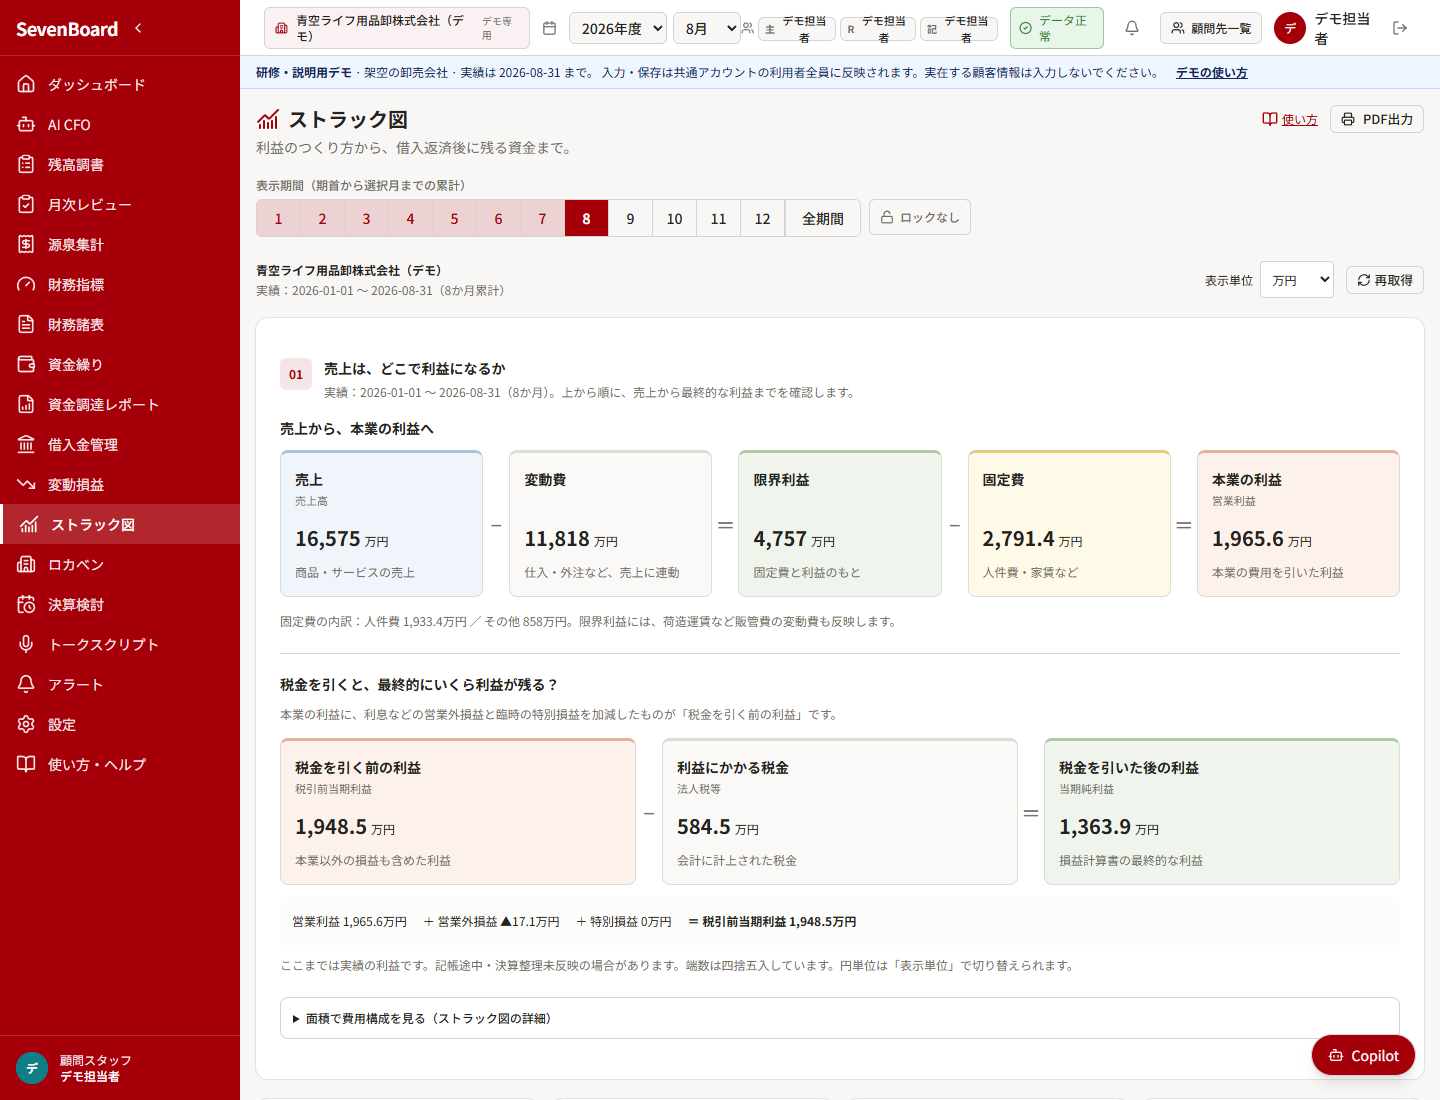
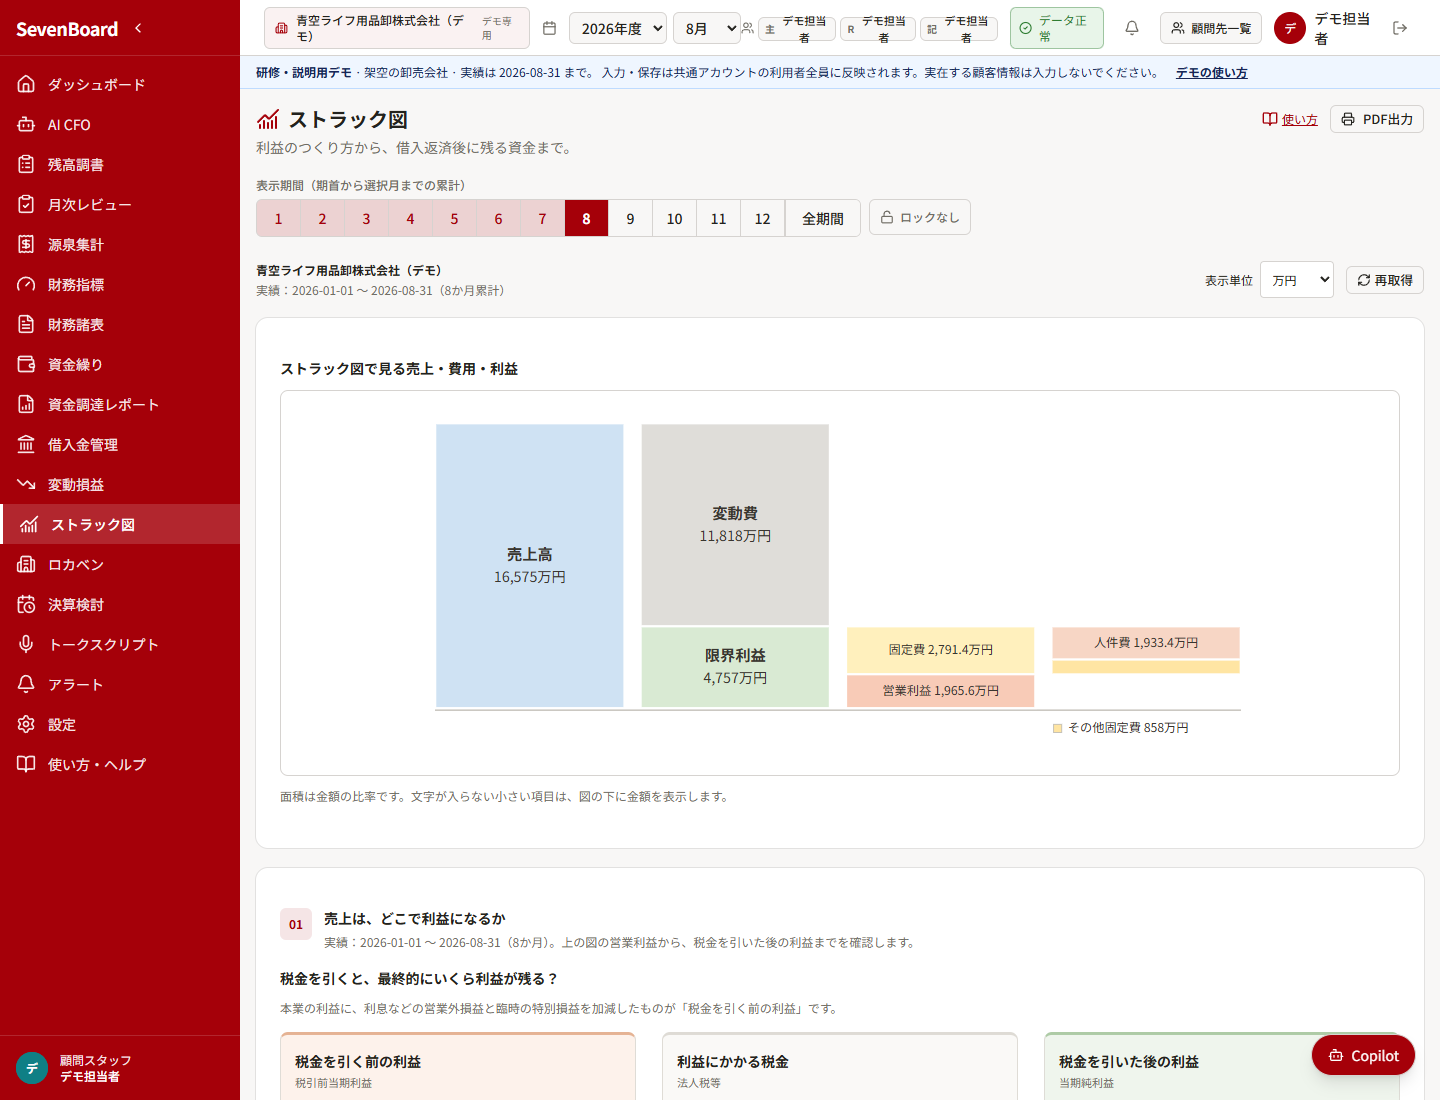
fix: show STRAC diagram before profit explanation

diff --git a/apps/web/src/app/strac/_chart.tsx b/apps/web/src/app/strac/_chart.tsx
@@ -8,8 +8,8 @@ export function money(value: number | null, unit: StracUnit = '万円') {
 }
 export const percent = (v: number | null) => v === null || !Number.isFinite(v) ? '—' : `${(v * 100).toFixed(1)}%`;
 
-/** Supplemental area view. Amounts stay outside the proportional bands. */
-function StracAreaChart({ data: d, unit }: { data: StracActual; unit: StracUnit }) {
+/** Always-visible area view; thin bands have their amounts below the baseline. */
+export function StracAreaChart({ data: d, unit }: { data: StracActual; unit: StracUnit }) {
   const proportional = d.revenue > 0 && [d.variable, d.contribution, d.fixed, d.personnel, d.otherFixed, d.operating].every(v => v >= 0);
   const values = [
     { label: '売上高', value: d.revenue, color: '#cfe2f3' },
@@ -18,44 +18,48 @@ function StracAreaChart({ data: d, unit }: { data: StracActual; unit: StracUnit 
     { label: '固定費', value: d.fixed, color: '#fff0bd' },
     { label: '営業利益', value: d.operating, color: '#f8cbb7' },
   ];
-  const y = 30, height = 280, scale = height / d.revenue;
-  const block = (x: number, top: number, h: number, color: string, label: string, value: number) => (
-    <g key={label}>
-      <rect x={x} y={top} width={186} height={Math.max(0, h)} fill={color} stroke="#fff" strokeWidth={2} />
-      <title>{`${label} ${Math.round(value).toLocaleString('ja-JP')}円`}</title>
-      {h >= 44 && <text x={x + 93} y={top + h / 2 + 5} fill="#39352f" fontSize={16} textAnchor="middle" fontWeight={600}>{label}</text>}
-    </g>
-  );
-  return <div>
-    <div className="strac-chart-scroll overflow-x-auto rounded-lg border bg-white p-3">
-      <svg className="strac-svg max-h-[340px] min-w-[620px] w-full" viewBox="0 0 816 347" role="img" aria-label="ストラック図：売上高を変動費・限界利益に、限界利益を固定費・営業利益に分解">
+  const y = 20, height = 280, scale = d.revenue > 0 ? height / d.revenue : 0;
+  const bands = [
+    { x: 10, offset: 0, label: '売上高', value: d.revenue, color: '#cfe2f3' },
+    { x: 212, offset: 0, label: '変動費', value: d.variable, color: '#dfddd9' },
+    { x: 212, offset: d.variable, label: '限界利益', value: d.contribution, color: '#d9ead3' },
+    { x: 414, offset: d.variable, label: '固定費', value: d.fixed, color: '#fff0bd' },
+    { x: 414, offset: d.variable + d.fixed, label: '営業利益', value: d.operating, color: '#f8cbb7' },
+    { x: 616, offset: d.variable, label: '人件費', value: d.personnel, color: '#f7d6c5' },
+    { x: 616, offset: d.variable + d.personnel, label: 'その他固定費', value: d.otherFixed, color: '#ffe5a3' },
+  ].map(b => ({ ...b, top: y + b.offset * scale, height: b.value * scale }));
+  const callouts = bands.filter(b => b.height < 22);
+  return <figure data-print-block data-testid="strac-area-chart">
+    <p className="screen-only mb-2 text-[11px] text-muted-foreground md:hidden">図は横にスクロールできます →</p>
+    <div className="strac-chart-scroll overflow-x-auto rounded-lg border bg-white p-3" tabIndex={0} aria-label="ストラック図。画面が狭い場合は横にスクロールできます">
+      <svg className="strac-svg max-h-[360px] min-w-[816px] w-full" viewBox="0 0 816 354" role="img" aria-label={`ストラック図：${bands.map(b => `${b.label} ${Math.round(b.value).toLocaleString('ja-JP')}円`).join('、')}`}>
         {proportional ? <>
-          {block(10, y, height, '#cfe2f3', '売上高', d.revenue)}
-          {block(212, y, d.variable * scale, '#dfddd9', '変動費', d.variable)}
-          {block(212, y + d.variable * scale, d.contribution * scale, '#d9ead3', '限界利益', d.contribution)}
-          {block(414, y + d.variable * scale, d.fixed * scale, '#fff0bd', '固定費', d.fixed)}
-          {block(414, y + (d.variable + d.fixed) * scale, d.operating * scale, '#f8cbb7', '営業利益', d.operating)}
-          {block(616, y + d.variable * scale, d.personnel * scale, '#f7d6c5', '人件費', d.personnel)}
-          {block(616, y + (d.variable + d.personnel) * scale, d.otherFixed * scale, '#ffe5a3', 'その他固定費', d.otherFixed)}
-          <line x1={10} x2={802} y1={312} y2={312} stroke="#aca79e" />
-          {['売上の全体', '売上に連動する費用', '限界利益の使い道', '固定費の内訳'].map((label, i) => <text key={label} x={103 + i * 202} y={334} fontSize={12} textAnchor="middle" fill="#706d65">{label}</text>)}
+          {bands.map(b => <g key={b.label}>
+            <rect x={b.x} y={b.top} width={186} height={b.height} fill={b.color} stroke="#fff" strokeWidth={2} />
+            <title>{`${b.label} ${Math.round(b.value).toLocaleString('ja-JP')}円`}</title>
+            {b.height >= 60 ? <>
+              <text x={b.x + 93} y={b.top + b.height / 2 - 6} fill="#39352f" fontSize={15} textAnchor="middle" fontWeight={600}>{b.label}</text>
+              <text x={b.x + 93} y={b.top + b.height / 2 + 16} fill="#39352f" fontSize={14} textAnchor="middle">{money(b.value, unit)}{unit}</text>
+            </> : b.height >= 22 ? <text x={b.x + 93} y={b.top + b.height / 2 + 4} fill="#39352f" fontSize={12} textAnchor="middle">{b.label} {money(b.value, unit)}{unit}</text> : null}
+          </g>)}
+          <line x1={10} x2={802} y1={302} y2={302} stroke="#aca79e" />
+          {callouts.map(b => {
+            const row = callouts.filter(item => item.x === b.x).findIndex(item => item.label === b.label);
+            return <g key={b.label}><rect x={b.x + 2} y={316 + row * 20} width={8} height={8} fill={b.color} stroke="#aaa" strokeWidth={0.5} /><text x={b.x + 16} y={324 + row * 20} fontSize={12} fill="#39352f">{b.label} {money(b.value, unit)}{unit}</text></g>;
+          })}
         </> : <>
           <line x1={410} x2={410} y1={10} y2={305} stroke="#aca79e" />
           {values.map((v, i) => {
-            const width = Math.abs(v.value) / Math.max(1, ...values.map(item => Math.abs(item.value))) * 285;
-            return <g key={v.label}><text x={10} y={40 + i * 54} fontSize={14} fill="#39352f">{v.label}</text><rect x={v.value < 0 ? 410 - width : 410} y={19 + i * 54} width={width} height={32} fill={v.value < 0 ? '#f4b6b6' : v.color} /><title>{`${v.label} ${Math.round(v.value).toLocaleString('ja-JP')}円`}</title></g>;
+            const width = Math.abs(v.value) / Math.max(1, ...values.map(item => Math.abs(item.value))) * 245;
+            return <g key={v.label}><text x={10} y={40 + i * 54} fontSize={14} fill="#39352f">{v.label}</text><rect x={v.value < 0 ? 410 - width : 410} y={19 + i * 54} width={width} height={32} fill={v.value < 0 ? '#f4b6b6' : v.color} /><text x={804} y={40 + i * 54} fontSize={12} textAnchor="end" fill="#39352f">{money(v.value, unit)}{unit}</text><title>{`${v.label} ${Math.round(v.value).toLocaleString('ja-JP')}円`}</title></g>;
           })}
           <text x={410} y={329} textAnchor="middle" fontSize={12} fill="#706d65">赤字・控除項目があるため、0を基準とした符号付き表示</text>
         </>}
       </svg>
     </div>
-    <div className="mt-3 grid grid-cols-2 gap-2 sm:grid-cols-5">
-      {values.map(v => <div key={v.label} className="rounded-md border p-3" style={{ borderTopColor: v.color, borderTopWidth: 3 }}><div className="text-xs text-muted-foreground">{v.label}</div><div className="mt-1 break-words text-lg font-bold tabular-nums" title={`${v.value.toLocaleString('ja-JP')}円`}>{money(v.value, unit)}<span className="ml-1 text-[10px] font-normal">{unit}</span></div></div>)}
-    </div>
-    <p className="mt-2 text-xs leading-6 text-muted-foreground">固定費の内訳：人件費 {money(d.personnel, unit)}{unit} ／ その他 {money(d.otherFixed, unit)}{unit}。金額は図の下に表示しています。</p>
-  </div>;
+    <figcaption className="mt-2 text-xs leading-6 text-muted-foreground">{proportional ? '面積は金額の比率です。文字が入らない小さい項目は、図の下に金額を表示します。' : `固定費の内訳：人件費 ${money(d.personnel, unit)}${unit} ／ その他 ${money(d.otherFixed, unit)}${unit}。`}</figcaption>
+  </figure>;
 }
-
 
 export function FlowAmount({ value, unit }: { value: number | null; unit: StracUnit }) {
   return <span className={`strac-amount tabular-nums ${value !== null && value < 0 ? 'text-red-700' : ''}`} title={value === null ? '未確認' : `${Math.round(value).toLocaleString('ja-JP')}円`}>{money(value, unit)}{value !== null && <span className="ml-1 text-xs font-normal">{unit}</span>}</span>;
@@ -74,20 +78,9 @@ export function FlowCard({ label, term, value, unit, operator, tone = 'neutral',
 }
 
 /** Reading order stays fixed, even when profit is small or negative. */
-export function StracChart({ data: d, unit }: { data: StracActual; unit: StracUnit }) {
+export function StracProfitFlow({ data: d, unit }: { data: StracActual; unit: StracUnit }) {
   return <div className="space-y-5">
     <div data-print-block>
-      <h3 className="mb-3 text-sm font-semibold">売上から、本業の利益へ</h3>
-      <div className="strac-flow strac-flow-five" aria-label="売上から営業利益への計算">
-        <FlowCard label="売上" term="売上高" value={d.revenue} unit={unit} tone="sales">商品・サービスの売上</FlowCard>
-        <FlowCard label="変動費" value={d.variable} unit={unit} operator="−">仕入・外注など、売上に連動</FlowCard>
-        <FlowCard label="限界利益" value={d.contribution} unit={unit} operator="＝" tone="margin">固定費と利益のもと</FlowCard>
-        <FlowCard label="固定費" value={d.fixed} unit={unit} operator="−" tone="cost">人件費・家賃など</FlowCard>
-        <FlowCard label="本業の利益" term="営業利益" value={d.operating} unit={unit} operator="＝" tone="profit">本業の費用を引いた利益</FlowCard>
-      </div>
-      <p className="mt-3 text-xs leading-6 text-muted-foreground">固定費の内訳：人件費 {money(d.personnel, unit)}{unit} ／ その他 {money(d.otherFixed, unit)}{unit}。限界利益には、荷造運賃など販管費の変動費も反映します。</p>
-    </div>
-    <div data-print-block className="border-t pt-5">
       <h3 className="mb-2 text-sm font-semibold">税金を引くと、最終的にいくら利益が残る？</h3>
       <p className="mb-3 text-xs leading-6 text-muted-foreground">本業の利益に、利息などの営業外損益と臨時の特別損益を加減したものが「税金を引く前の利益」です。</p>
       <div className="strac-flow strac-flow-three" aria-label="税金を引く前から引いた後の利益">
@@ -100,6 +93,5 @@ export function StracChart({ data: d, unit }: { data: StracActual; unit: StracUn
       </div>
       <p className="mt-2 text-xs leading-6 text-muted-foreground">ここまでは実績の利益です。記帳途中・決算整理未反映の場合があります。端数は四捨五入しています。円単位は「表示単位」で切り替えられます。</p>
     </div>
-    <details className="rounded-lg border p-3"><summary className="cursor-pointer text-xs font-medium">面積で費用構成を見る（ストラック図の詳細）</summary><div className="mt-3"><StracAreaChart data={d} unit={unit} /></div></details>
   </div>;
 }

diff --git a/apps/web/src/app/strac/page.tsx b/apps/web/src/app/strac/page.tsx
@@ -14,7 +14,7 @@ import { useMfOffice } from '@/hooks/use-mf-data';
 import { usePeriodStore } from '@/lib/period-store';
 import { api } from '@/lib/api';
 import { stracFingerprint, stracActual, stracBookDebt, stracPlan, stracRepayments, stracWindow, normalizeStracAssumptions, type StracAssumptions, type StracWindow } from '@/lib/strac';
-import { StracChart, money, percent, STRAC_UNITS, type StracUnit } from './_chart';
+import { StracAreaChart, StracProfitFlow, money, percent, STRAC_UNITS, type StracUnit } from './_chart';
 import { RepaymentFlow } from './_repayment';
 import './strac.css';
 
@@ -93,8 +93,12 @@ function StracContent({ orgId, company, window: w, readOnly }: { orgId: string; 
     {w.capped && <Notice>未経過の月を含めず、{w.end}までの月末実績を表示しています。</Notice>}
     {!sourceReady && <Notice warning>{issueList(actual.issues)}<p className="mt-2">P/Lとの一致を確認するまで、返済余力の試算を保留します。</p></Notice>}
     <Card><CardContent className="p-4 sm:p-6">
-      <SectionTitle number="01" title="売上は、どこで利益になるか" description={`実績：${w.start} 〜 ${w.end}（${w.months}か月）。上から順に、売上から最終的な利益までを確認します。`} />
-      {[actual.revenue, actual.variable, actual.fixed, actual.operating].every(Number.isFinite) ? <StracChart data={actual} unit={unit} /> : <Notice warning>図を描画できる数値を取得できませんでした。</Notice>}
+      <h2 className="mb-3 text-sm font-semibold">ストラック図で見る売上・費用・利益</h2>
+      {[actual.revenue, actual.variable, actual.fixed, actual.operating].every(Number.isFinite) ? <StracAreaChart data={actual} unit={unit} /> : <Notice warning>図を描画できる数値を取得できませんでした。</Notice>}
+    </CardContent></Card>
+    <Card data-print-block><CardContent className="p-4 sm:p-6">
+      <SectionTitle number="01" title="売上は、どこで利益になるか" description={`実績：${w.start} 〜 ${w.end}（${w.months}か月）。上の図の営業利益から、税金を引いた後の利益までを確認します。`} />
+      {[actual.revenue, actual.variable, actual.fixed, actual.operating].every(Number.isFinite) ? <StracProfitFlow data={actual} unit={unit} /> : <Notice warning>図を描画できる数値を取得できませんでした。</Notice>}
     </CardContent></Card>
     <div className="strac-metrics grid gap-3 sm:grid-cols-2 xl:grid-cols-4">
       <Metric label="売上100円から残る限界利益" value={actual.margin === null ? '—' : `${(actual.margin * 100).toFixed(1)}円`} detail="売上 − 変動費。固定費と利益の原資です。" />
@@ -132,7 +136,7 @@ function StracContent({ orgId, company, window: w, readOnly }: { orgId: string; 
         <label className="screen-only mt-4 flex items-start gap-2 rounded-md bg-muted/60 p-3 text-xs leading-6"><input type="checkbox" className="mt-1" checked={reviewed} disabled={saved.isPending || saved.isError || save.isPending} onChange={e => set('confirmed', e.target.checked)} />想定税率・償却費・返済予定・運転資金・投資・その他の調整を確認した（変更後は再確認）</label>
       </div>
     </CardContent></Card>
-    <Card><CardContent className="p-4 sm:p-6">
+    <Card data-print-block><CardContent className="p-4 sm:p-6">
       <SectionTitle number="03" title="何を変えると、返済余力が増えるか" description="同じ12か月の前提で改善前後を比較します。限界利益率と固定費を一定とする簡易モデルです。" />
       <div className="strac-inputs grid gap-4 sm:grid-cols-2 lg:grid-cols-4">
         {field('salesChange', '売上の増減率（%）', '年換算売上に対する増減。値下げによる費用率の変化は右欄も調整。')}

diff --git a/apps/web/src/app/help/_content.ts b/apps/web/src/app/help/_content.ts
@@ -36,8 +36,8 @@ export const helpArticles: HelpArticle[] = [
     summary: "売上・費用・利益を図で整理し、今後12か月の借入返済と改善策を検討します。",
     images: [{ file: "strac", caption: "デモの2026年1〜8月累計。売上から変動費・限界利益・固定費・営業利益を分解します。" }, { file: "strac-repayment", caption: "同じ実績を年換算し、今後12か月の元金返済300万円と比較。運転資金や設備投資は前提欄で調整します。" }],
     steps: [
-      { title: "会社と実績期間を確認する", body: "左メニューの「ストラック図」を開きます。図と上段の指標は期首から基準月末までの累計です。未経過月は含めず、年換算できる月末までの実績を使います。デモは2026年8月までの実績を確認できます。" },
-      { title: "売上から利益への分解を読む", body: "売上から変動費を引くと限界利益、さらに固定費を引くと営業利益になります。税引前当期利益は「税金を引く前の利益」、当期純利益は「税金を引いた後の利益」と表示します。引き算の順に読むと、最終的な利益が分かります。面積で見る図は詳細を開くと確認できます。「費用の区分」での変更は変動損益にも共有されます。" },
+      { title: "会社と実績期間を確認する", body: "左メニューの「ストラック図」を開きます。先頭の図と実績の指標は期首から基準月末までの累計です。未経過月は含めず、年換算できる月末までの実績を使います。デモは2026年8月までの実績を確認できます。" },
+      { title: "売上から利益への分解を読む", body: "売上から変動費を引くと限界利益、さらに固定費を引くと営業利益になります。税引前当期利益は「税金を引く前の利益」、当期純利益は「税金を引いた後の利益」と表示します。引き算の順に読むと、最終的な利益が分かります。面積で見るストラック図は画面の先頭に常時表示します。金額は図中に表示し、小さい項目は図の下で確認できます。「費用の区分」での変更は変動損益にも共有されます。" },
       { title: "利益から元金返済に回せる資金へつなぐ", body: "返済余力は基準月の翌月から12か月の試算です。実績の月平均を12倍し、特別損益を除いた利益に想定税率を適用します。償却費を戻し、運転資金の増加・設備投資・その他の資金調整を反映します。「返済に回せるお金 − これから返す元金 ＝ 返済後に残るお金」の3つを順に読みます。棒グラフは同じ目盛りで両者を比べます。" },
       { title: "前提と返済予定表を確かめる", body: "税率は初期値30%の仮定です。運転資金・投資等は初期値0円なので、実態に合わせて入力してください。返済予定表が未登録・不完全、帳簿残高と不一致の場合は自動判定を保留します。確認した年間元金総額を手入力することもできます。利息は利益に含むため二重には差し引きません。" },
       { title: "改善策を試して前提を保存する", body: "売上の増減・限界利益率の改善・固定費の削減を入力し、返済余力の差額と必要売上高を確認します。増収で在庫や売掛金が増えるなら運転資金も調整します。「この期間の前提を保存」で会社・基準月ごとに共有できます。期間を切り替える前に保存してください。PDF出力も利用できます。" },

diff --git a/apps/web/src/app/strac/strac.css b/apps/web/src/app/strac/strac.css
@@ -13,6 +13,7 @@
   .strac-page .strac-chart-scroll { overflow: visible !important; }
   .strac-page svg { print-color-adjust: exact; }
   .strac-page [data-slot="card"] { break-inside: auto; box-shadow: none; }
+  .strac-page [data-slot="card"][data-print-block] { break-inside: avoid; }
   .strac-page h2, .strac-page h3 { break-after: avoid; }
 }
 
@@ -25,7 +26,6 @@
 }
 
 .strac-flow { display: grid; gap: 26px; }
-.strac-flow-five { grid-template-columns: repeat(5, minmax(0, 1fr)); }
 .strac-flow-three { grid-template-columns: repeat(3, minmax(0, 1fr)); }
 .strac-flow-card { position: relative; min-width: 0; border: 1px solid #dedbd5; border-top-width: 3px; border-radius: 8px; padding: 14px; background: #faf9f7; }
 .strac-flow-card > div:first-of-type { min-height: 43px; }
@@ -36,13 +36,6 @@
 .strac-operator { position: absolute; top: 50%; left: -27px; width: 26px; text-align: center; transform: translateY(-50%); color: #78716c; font-size: 20px; font-weight: 500; }
 .strac-amount { overflow-wrap: anywhere; }
 .strac-repayment-result .strac-amount { font-size: 26px; }
-@media screen and (max-width: 1199px) {
-  .strac-flow-five { grid-template-columns: 1fr; }
-  .strac-flow-five .strac-flow-card { display: grid; grid-template-columns: 1fr 1fr; gap: 0 12px; }
-  .strac-flow-five .strac-flow-card > p:first-of-type { text-align: right; margin-top: 0; align-self: center; }
-  .strac-flow-five .strac-flow-card > p:last-of-type { grid-column: 1 / -1; }
-  .strac-flow-five .strac-operator { top: -28px; left: calc(50% - 13px); transform: none; line-height: 26px; }
-}
 @media screen and (max-width: 959px) {
   .strac-flow-three { grid-template-columns: 1fr; }
   .strac-flow-three .strac-operator { top: -28px; left: calc(50% - 13px); transform: none; line-height: 26px; }

diff --git a/docs/strac-20260918.md b/docs/strac-20260918.md
@@ -3,7 +3,7 @@
 ## 追加した画面
 
 - `/strac`。既存のデザインを使い、変動損益の次にメニューを追加。
-- ユーザー提供の `strac-chart.html` を参考に、実際のMF損益と借入返済予定表に接続。売上→変動費・限界利益→固定費・営業利益を、金額の大小によらず読めるカードと演算記号で分解。面積による図は詳細で確認できる。
+- ユーザー提供の `strac-chart.html` を参考に、実際のMF損益と借入返済予定表に接続。売上→変動費・限界利益→固定費・営業利益を面積で示す図を、利益説明セクションより前に常時表示。金額は図中、小さい項目は図の下に表示し、重複する売上高〜営業利益のカードは置かない。
 - 「税金を引く前の利益 − 利益にかかる税金 ＝ 税金を引いた後の利益」を大きく表示。会計用語と営業外損益・特別損益の内訳を併記。
 - 限界利益率、営業利益の損益分岐点、経営安全率、固定人件費の労働分配率と、データに基づく説明。
 - 増収・利益率改善・固定費削減のシナリオ、返済と目標資金を満たす必要売上高。
